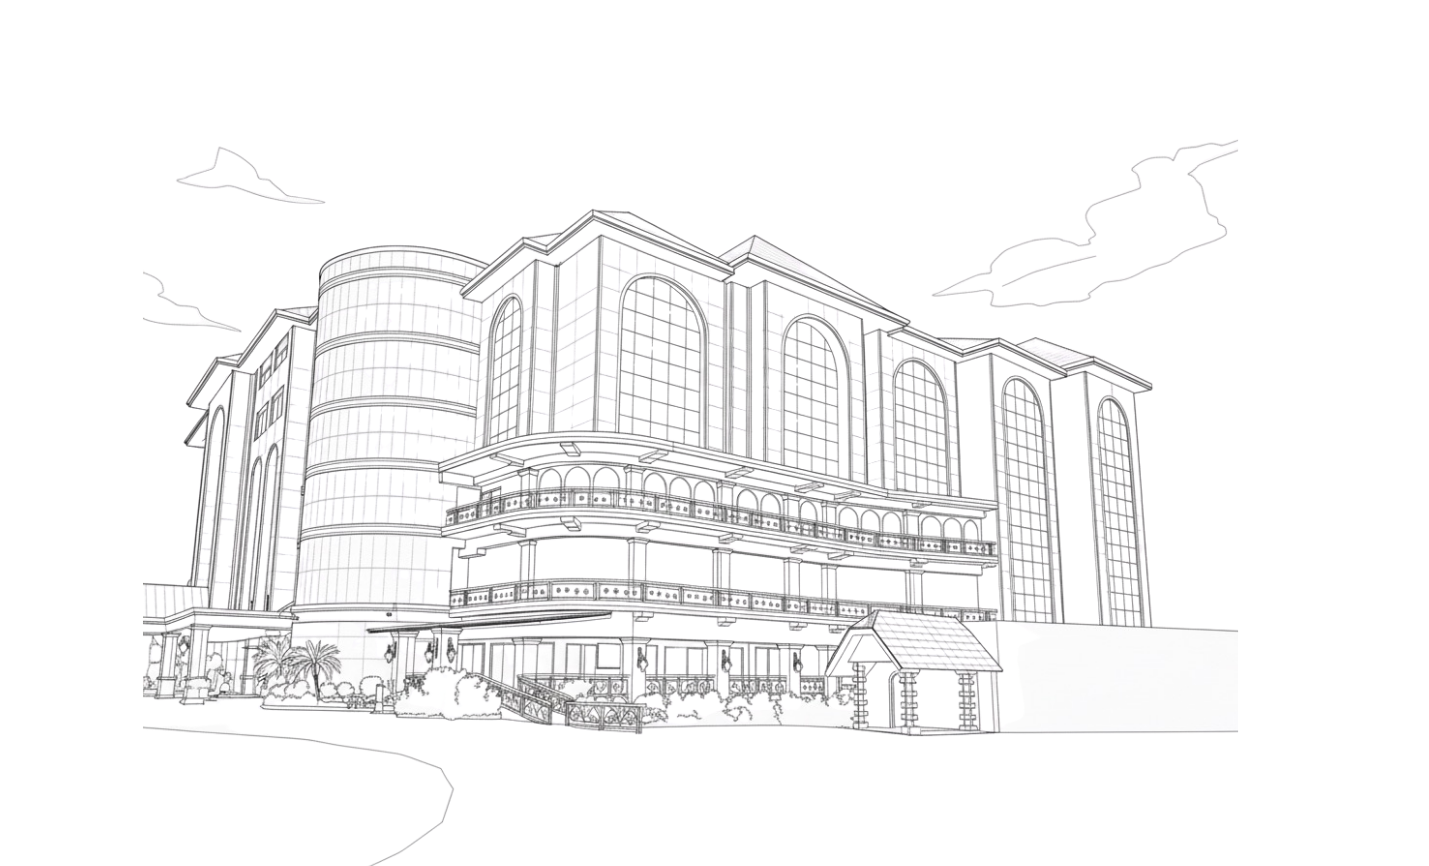
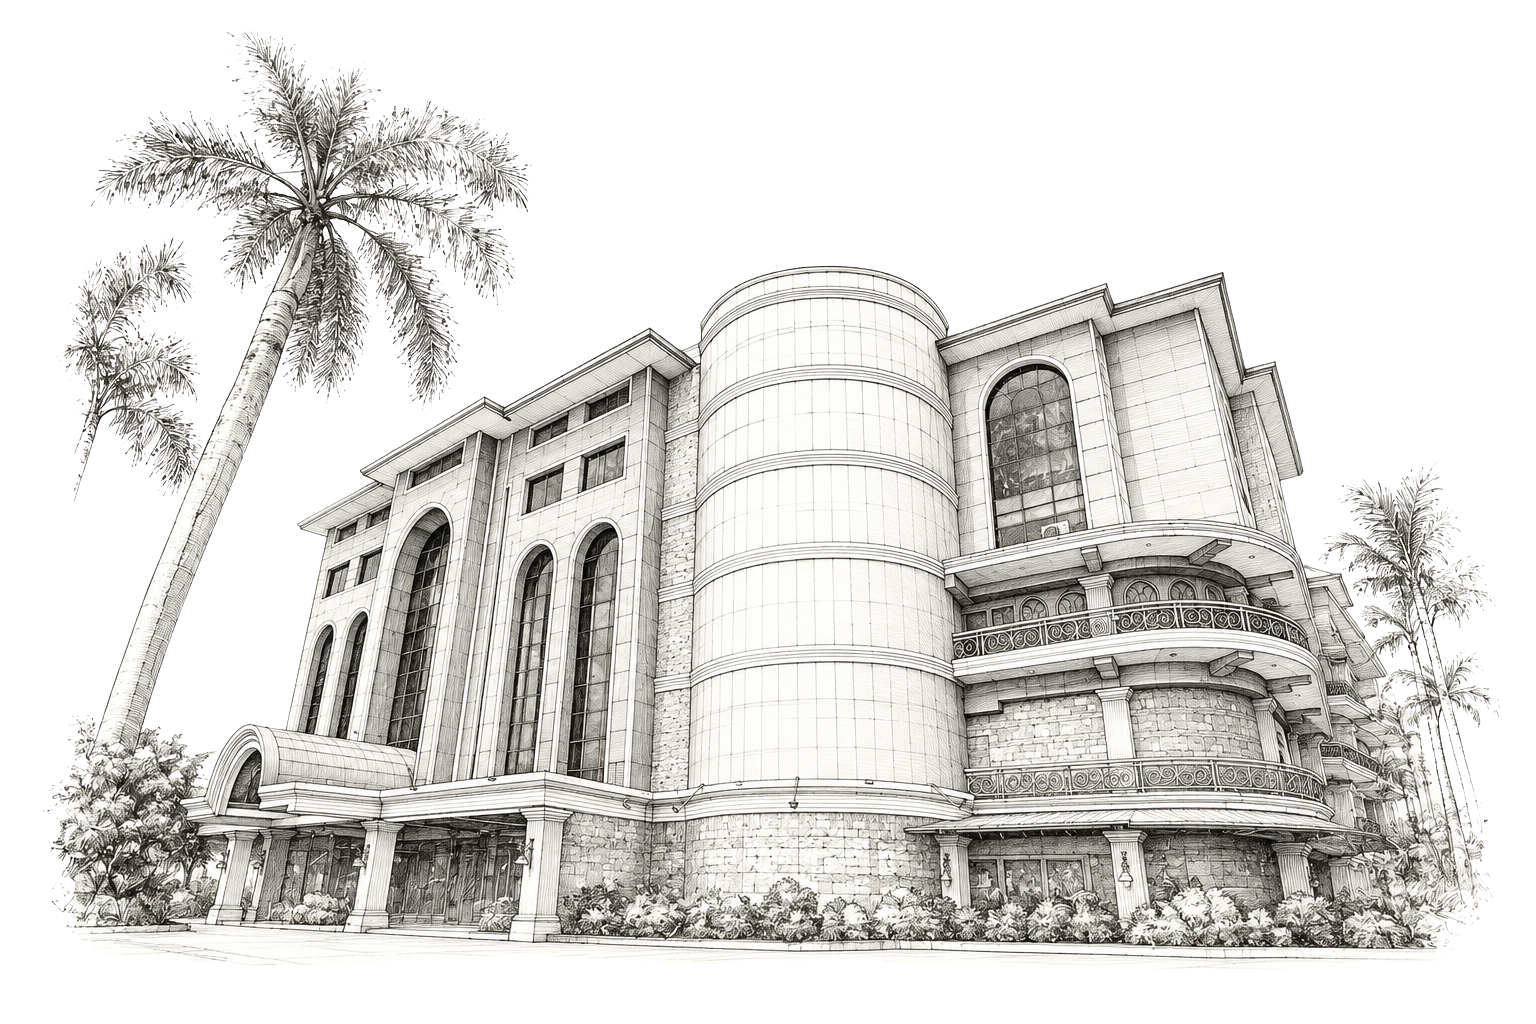
updated minor typos on entourage names and details.

diff --git a/src/scripts/components/entourage.tsx b/src/scripts/components/entourage.tsx
@@ -3,7 +3,7 @@ import { useState } from 'react';
 const PageOne = () => {
     const prinipalSponsors = {
         male: ["Mr. Dave Rey B. Alaan", "Engr. Orencio M. Apale", "PLT Rogelio A. Baluran", "Mr. Victoriano B. Caybot", "Capt. Renerio Daquio", "Mr. Arnold R. Garcia", "Mr. Melvin C. Jabajab", "Mr. Mario L. Israel", "Engr. Arnold L. Labunog", "Mr. Jay L. Lancila", "Mr. Serecio I. Locot", "Mr. Joseph P. Namor", "Mr. Sercio L. Narbay", "Mr. Ramon Operio", "Mr. Cresencio Raut", "Mr. Minardo I. Romuga", "Engr. Ruel I. Romuga", "Mr. Salvador I. Romuga", "Mr. Eulie I. Saturinas", "Engr. Gilbert O. Suarez", "Mr. Mario Jr. S. Ubas", "Atty. Raymond Ben K. Uy"],
-        female: ["Mrs. Irene O. Alaan", "Engr. Erlinda A. Apale", "Mrs. Rosario Fe G. Baluran", "Mrs. Conception Caybot", "Mrs. Peregrina C. Daquio", "Mrs. Rosette M. Garcia", "Mrs. Judy U. Jabajab", "Mrs. Milagros B. Israel", "Mrs. Maria Carmen B. Labunog", "Mrs. Merlyn P. Lancila", "Mrs. Lea M. Locot", "Mrs. Loreto T. Namor, CPA", "Mrs. Rowena A. Narbay", "Ms. Gloricil P. Fudalan", "Ma. Cecilia N. Raut", "Mrs. Venus I. Iyog", "Ms. Daisy L. Israel", "Mrs. Marciana B. Romuga", "Mrs. Jean C. Saturinas", "Mrs. Marlyn L. Suarez", "Ms. Ana Fe M. Manding", "Ms. Clarice Elaine B. Davila"]
+        female: ["Mrs. Irene O. Alaan", "Engr. Erlinda A. Apale", "Mrs. Rosario Fe G. Baluran", "Mrs. Conception Caybot", "Mrs. Peregrina C. Daquio", "Mrs. Rosette M. Garcia", "Mrs. Judy U. Jabajab", "Mrs. Milagros B. Israel", "Mrs. Maria Carmen B. Labunog", "Mrs. Merlyn P. Lancila", "Mrs. Lea M. Locot", "Mrs. Loreto T. Namor, CPA", "Mrs. Rowena A. Narbay", "Ms. Gloricil P. Fudalan", "Mrs. Ma. Cecilia N. Raut", "Mrs. Venus I. Iyog", "Ms. Daisy L. Israel", "Mrs. Marciana B. Romuga", "Mrs. Jean C. Saturinas", "Mrs. Marlyn L. Suarez", "Ms. Ana Fe M. Manding", "Ms. Clarice Elaine B. Davila"]
     };
 
     return (
@@ -52,7 +52,7 @@ const PageOne = () => {
 const PageTwo = () => {
     const party = {
         male: ["Mr. Kenneth Agripo", "Mr. Raymond Abellanosa", "Mr. Karl Patrick A. Galbo", "Mr. Nelson Agripo Jr.", "Engr. Mark Ross Kelp B. Israel", "Mr. Jeff Kenneth L. Duran"],
-        female: ["Ms. Claire Jezreel I. Iyog", "Ms. Cynthia Manding", "Engr. Mary Rose Sheena B. Israel", "Ms. Mailyn G. Pacquiao", "Ms. Glorielene Mijares", "Engr. Mary Rose Rhofian Israel"]
+        female: ["Ms. Claire Jezreel I. Iyog", "Ms. Cynthia Manding", "Engr. Mary Rose Sheena B. Israel", "Ms. Mailyn G. Pacquiao", "Ms. Glorielene Mijares", "Engr. Mary Rose Rhofian B. Israel"]
     }
 
     return (
@@ -65,6 +65,16 @@ const PageTwo = () => {
                 <div className="text-left">
                     <p className="font-bold font-serif">Maid of Honor</p>
                     <p>Ms. Jenny Agripo</p>
+                </div>
+            </div>
+            <div className="grid grid-cols-2 gap-4 pb-6">
+                <div className="text-right">
+                    <p className="font-bold font-serif"></p>
+                    <p></p>
+                </div>
+                <div className="text-left">
+                    <p className="font-bold font-serif">Man of Honor</p>
+                    <p>Mr. Pedz Ocdenaria Quiñal</p>
                 </div>
             </div>
 
@@ -191,7 +201,7 @@ const PageThree = () => (
                 </p>
                 <div className="text-right">
                     <p className="font-bold font-serif">First Reading</p>
-                    <p>Mr. Ralph Felvin M. Potane</p>
+                    <p>Mr. Ralphfelvin M. Potane</p>
                 </div>
                 <div className="text-left">
                     <p className="font-bold font-serif">Responsorial Psalm</p>

diff --git a/src/scripts/components/wedtimeline.tsx b/src/scripts/components/wedtimeline.tsx
@@ -4,8 +4,8 @@ const wedtimeline = () => {
     const schedule = [
         { time: "1:30 PM", event: "Processional", icon: "/icons/arrival.png" },
         { time: "2:00 PM", event: "Wedding Ceremony", icon: "/icons/ceremony.png" },
-        { time: "4:00 PM", event: "Photo Shoot", icon: "/icons/photo.png" },
-        { time: "4:30 PM", event: "Cocktail Hour", icon: "/icons/cocktail.png" },
+        { time: "3:30 PM", event: "Photo Shoot", icon: "/icons/photo.png" },
+        { time: "4:00 PM", event: "Cocktail Hour", icon: "/icons/cocktail.png" },
         { time: "5:30 PM", event: "First Dance", icon: "/icons/dance.png" },
         { time: "5:45 PM", event: "Cake Cutting", icon: "/icons/cake.png" },
         { time: "6:00 PM", event: "Dinner", icon: "/icons/dinner.png" },
